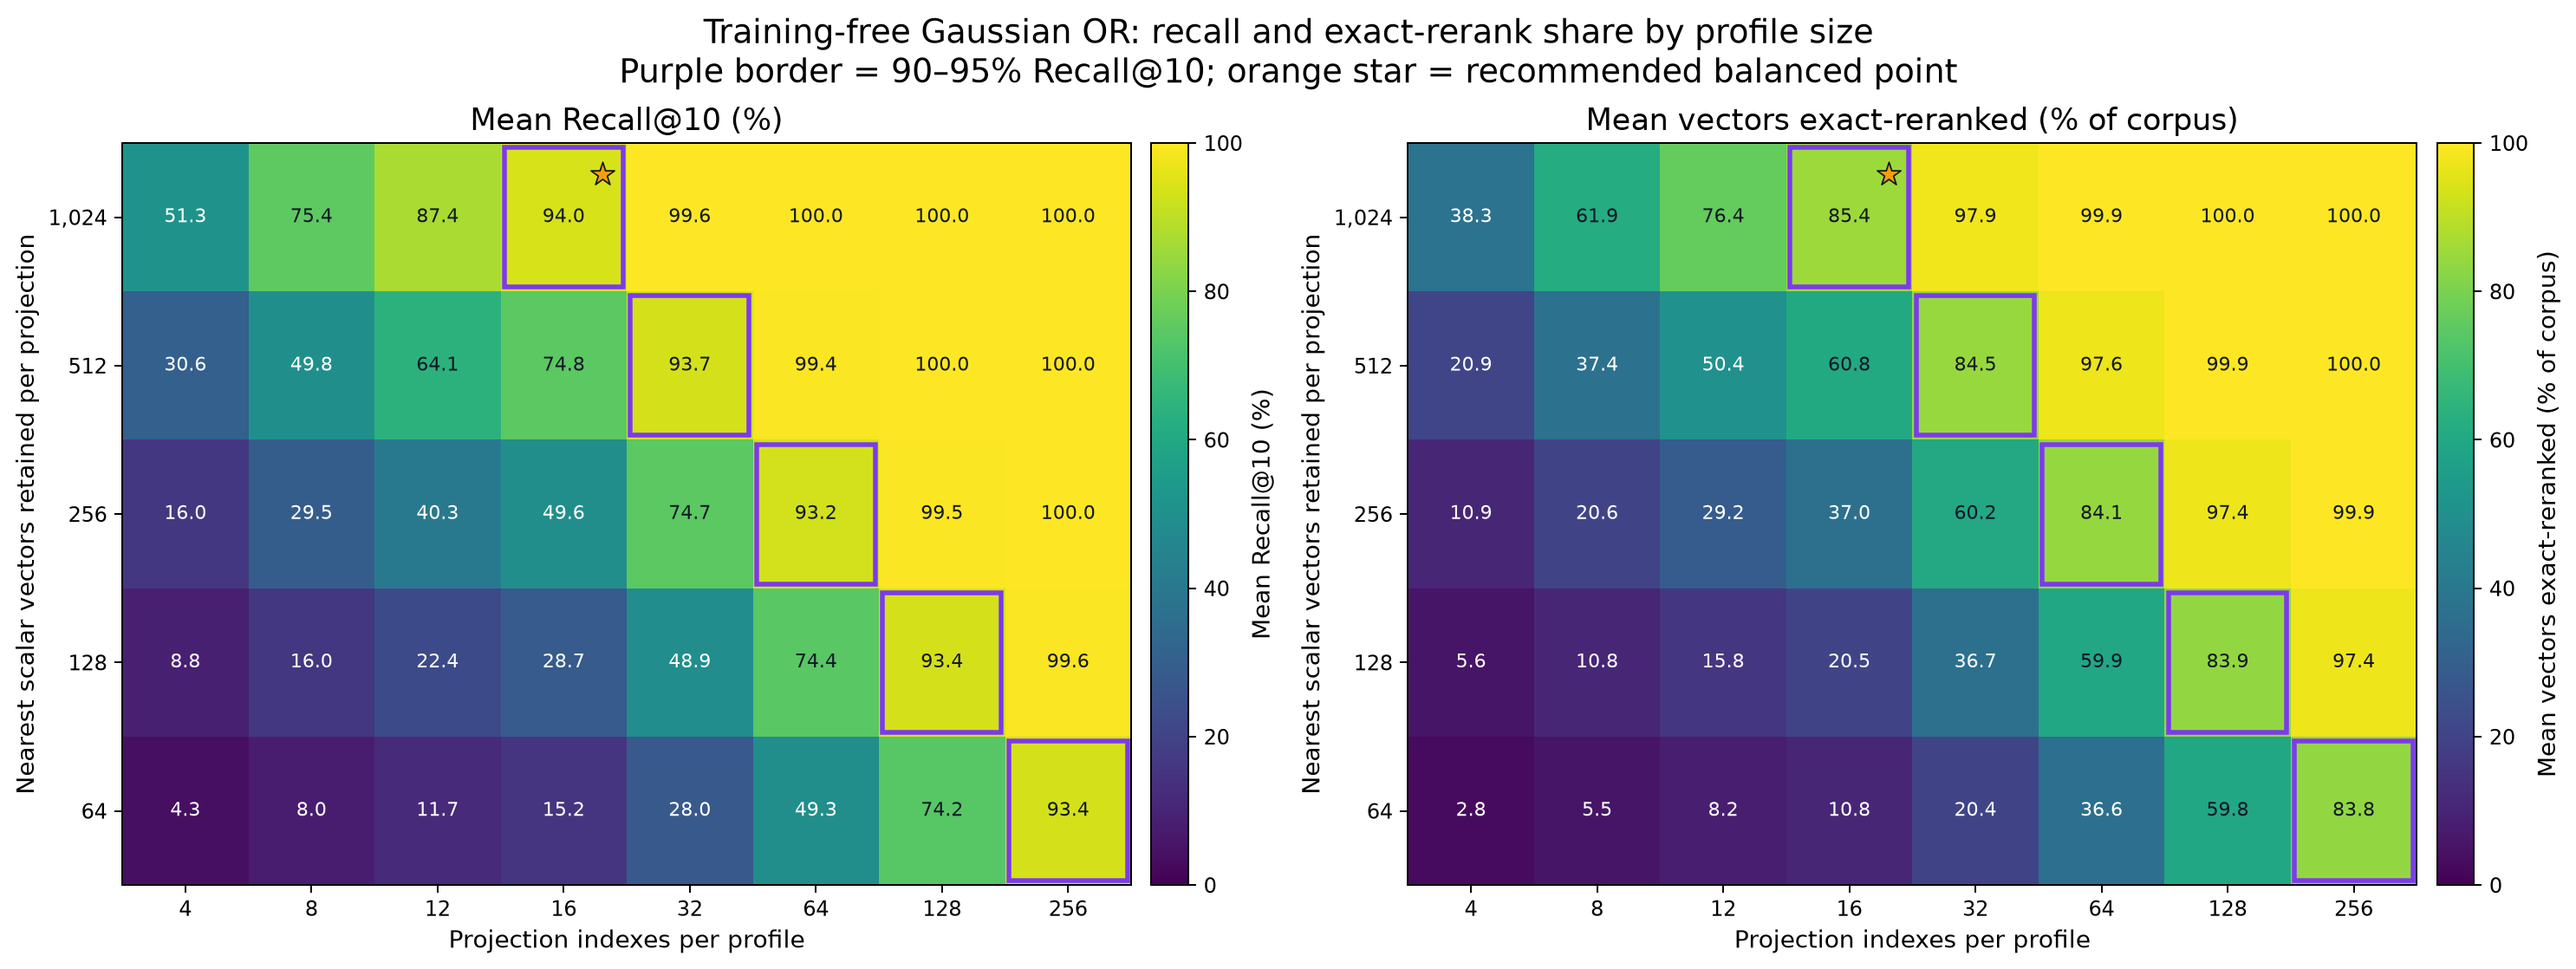
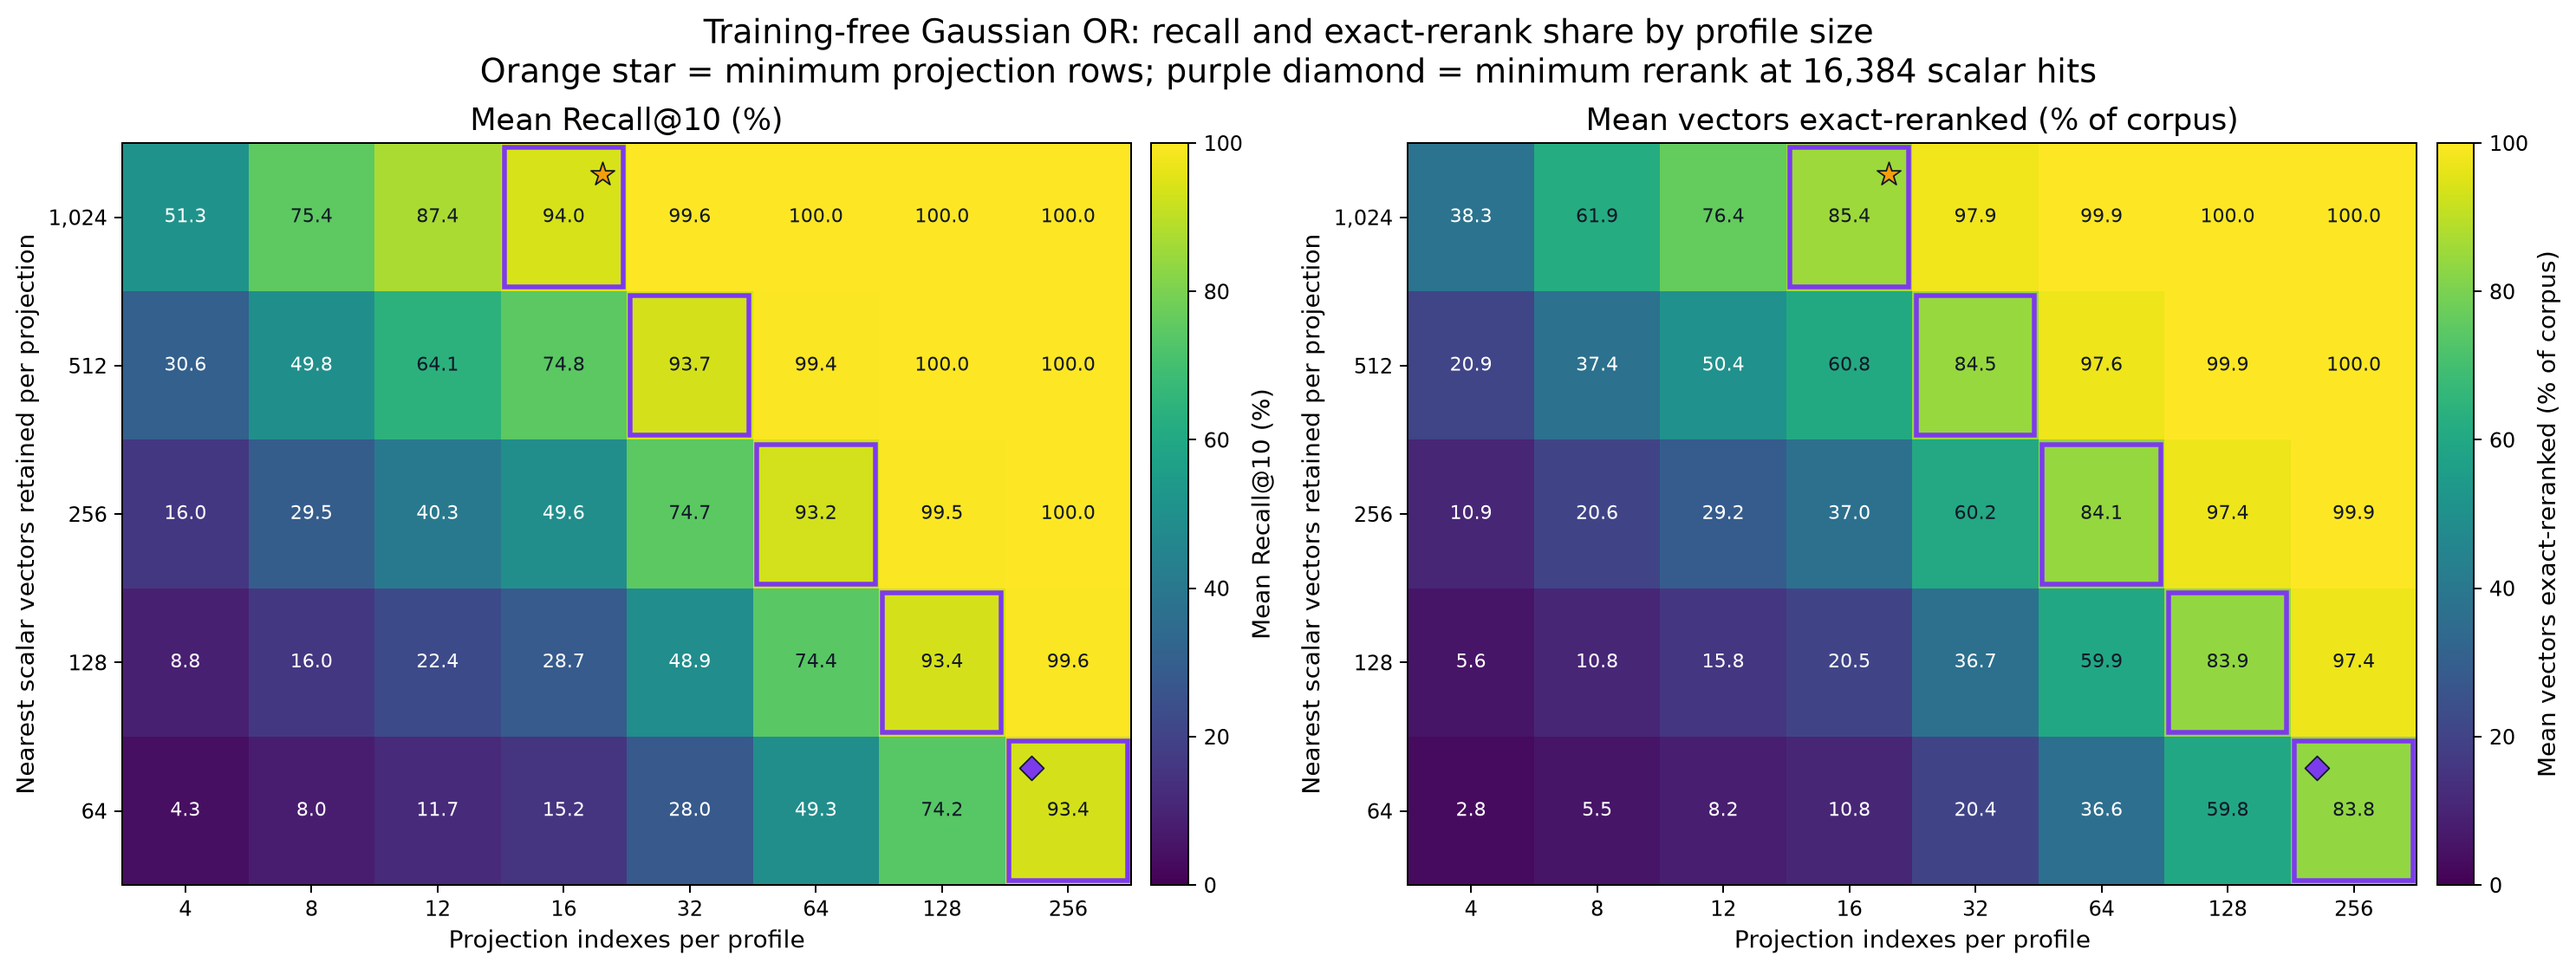
docs: clarify vector benchmark tradeoffs

Changed region(s): [[0.1857, 0.0608, 0.8048, 0.0912]]

diff --git a/docs/21-vector-ann.md b/docs/21-vector-ann.md
@@ -44,13 +44,13 @@ PCA profiles contain one dimension-length mean. Gaussian profiles contain no mea
 
 | Requirement | Profile | Initial configuration | Limitation |
 | --- | --- | --- | --- |
-| Matryoshka model and dense prefix scoring | normalized prefix scan plus full rerank | 128D prefix, rerank about 2.9% | requires a vector scan outside scalar B-tree retrieval |
+| nested-prefix embedding model and dense prefix scoring | normalized prefix scan plus full rerank | 128D prefix, rerank about 2.9% | requires a vector scan outside scalar B-tree retrieval |
 | no fitting or corpus scan | Gaussian multi-projection | 16 projections for write-sensitive partitions | measured 90% recall required reranking most of the corpus |
 | stable corpus and lower read amplification | trained PCA | one projection | profile rebuild required after material distribution drift |
 | optional filtering on a fixed Gaussian profile | collision threshold | tune after projection count and `LIMIT` | large projection table and query fan-out |
 | small filtered partition | exact scan | no projection profile | cost grows linearly with filtered row count |
 
-The Matryoshka prefix scan was the most selective measured candidate path, but it requires dense vector scoring. Among scalar B-tree prefilters, PCA was the most selective. Gaussian projections remain the recommended **training-free storage format**, not the default query plan when training or prefix scanning is available.
+The nested-prefix scan was the most selective measured candidate path, but it requires dense vector scoring. Among scalar B-tree prefilters, PCA was the most selective. Gaussian projections remain the recommended **training-free storage format**, not the default query plan when training or prefix scanning is available.
 
 ## Go profile lifecycle
 
@@ -365,7 +365,7 @@ These fractions are initial values for similar distributions, not portable guara
 | 128 | 128 | 16,384 | 7,549 | 83.88% | 93.40% |
 | 256 | 64 | 16,384 | 7,540 | 83.78% | 93.38% |
 
-Static two-sided SQL may read up to twice the listed scalar-hit count. All five profiles consume the same number of scalar hits. The 16-projection profile is the recommended balanced point: compared with 256 projections, it writes sixteen times fewer projection rows while increasing the exact-rerank share by only 1.64 percentage points.
+Static two-sided SQL may read up to twice the listed scalar-hit count. All five profiles consume 16,384 scalar hits, so there is no single optimum. The 16-projection profile minimizes projection rows and write/storage amplification; the 256-projection profile minimizes exact reranking. Moving from 16 to 256 projections writes sixteen times more projection rows to reduce the rerank share by 1.64 percentage points.
 
 ### Optional Gaussian collision filtering
 
@@ -392,7 +392,7 @@ The overview uses Pareto frontiers without a marker at every measurement. The da
 
 ![Candidate selectivity and scalar index work in the target recall region](assets/vector-ann-operating-region.png)
 
-The left panel expands Recall@10 from 88% to 97% and labels the measured operating points. The right panel places the same points on a logarithmic scalar-hit axis. Marker area increases with the number of vectors sent to exact kNN reranking. The orange star marks the lowest measured candidate and scalar-hit cost in the target band: trained PCA with one axis and `K=4,250`.
+The left panel expands Recall@10 from 88% to 97% and labels the measured operating points. The right panel places the same points on a logarithmic scalar-hit axis. Marker area increases with the number of vectors sent to exact kNN reranking. The orange star identifies the measured B-tree point that simultaneously used the fewest projection rows, scalar hits, and rerank candidates in the target band: trained PCA with one axis and `K=4,250`.
 
 Scalar hits assume application-managed lower/upper cursor merging. Static SQL that materializes `K` rows from both directions may read up to twice the displayed count.
 
@@ -406,7 +406,7 @@ The left panel retains the complete response curve. The right panel isolates the
 
 ![Training-free Gaussian OR Recall@10 matrix](assets/vector-ann-qalsh-tuning.png)
 
-The left matrix prints measured Recall@10. The right matrix prints the mean percentage of corpus vectors that proceed to exact kNN reranking. Purple outlines identify 90–95% Recall@10 cells in both panels. The orange star marks the recommended balanced training-free point: 16 projections with `LIMIT 1,024`.
+The left matrix prints measured Recall@10. The right matrix prints the mean percentage of corpus vectors that proceed to exact kNN reranking. Purple outlines identify 90–95% Recall@10 cells in both panels. Among the equal-16,384-hit profiles, the orange star marks the minimum-write point at 16 projections with `LIMIT 1,024`; the purple diamond marks the minimum-rerank point at 256 projections with `LIMIT 64`.
 
 The matrix includes 4, 8, 12, and 16 projections. With `LIMIT 1,024` per projection, their measured Recall@10 values were 51.30%, 75.36%, 87.38%, and 93.98%. Sixteen projections were the first tested count at or below 16 to enter the 90–95% target band.
 
@@ -420,11 +420,11 @@ Threshold values are not comparable across different projection counts or per-in
 
 Source rows for all figures are in [`vector-ann-benchmark.csv`](assets/vector-ann-benchmark.csv).
 
-## Matryoshka prefix experiment
+## Nested-prefix embedding experiment
 
-The [Gemini Embedding 2 preview sample](https://huggingface.co/datasets/allura-forge/gemini-embedding-2-preview-embeddings) adds a materially different option: rank every row with a normalized prefix, then rerank that prefix candidate set with the full 3,072-dimensional vector. The model uses Matryoshka Representation Learning, so its prefixes retain more neighborhood structure than arbitrary truncation.
+The [public 3,072D nested-prefix embedding sample](https://huggingface.co/datasets/allura-forge/gemini-embedding-2-preview-embeddings) adds a materially different option: rank every row with a normalized prefix, then rerank that prefix candidate set with the full 3,072-dimensional vector. The source model uses nested-prefix representation learning, so its prefixes retain more neighborhood structure than arbitrary truncation.
 
-[The model API supports 128–3,072 output dimensions and recommends 768, 1,536, or 3,072](https://ai.google.dev/gemini-api/docs/models/gemini-embedding-2-preview). The 16D and 32D measurements below intentionally test the lower-dimension hypothesis outside that supported range; they are diagnostics, not production model settings. The experiment sliced the stored 3,072D vectors and L2-normalized every prefix before cosine scoring. [API-produced truncated Gemini Embedding 2 vectors are already normalized](https://ai.google.dev/gemini-api/docs/embeddings#quality-for-smaller-dimensions).
+[The source model API supports 128–3,072 output dimensions and recommends 768, 1,536, or 3,072](https://ai.google.dev/gemini-api/docs/models/gemini-embedding-2-preview). The 16D and 32D measurements below intentionally test the lower-dimension hypothesis outside that supported range; they are diagnostics, not production model settings. The experiment sliced the stored 3,072D vectors and L2-normalized every prefix before cosine scoring. [API-produced truncated vectors from the source model are already normalized](https://ai.google.dev/gemini-api/docs/embeddings#quality-for-smaller-dimensions).
 
 ### Direct prefix tuning
 
@@ -436,10 +436,10 @@ Each row scans the listed prefix across all 9,000 corpus vectors, retains the li
 | 32 | 2,048 | 22.76% | 1.04% | 23.80% | 90.60% |
 | 64 | 1,024 | 11.38% | 2.08% | 13.46% | 93.18% |
 | **128** | **256** | **2.84%** | **4.17%** | **7.01%** | **93.54%** |
-| 256 | 64 | 0.71% | 8.33% | 9.04% | 93.82% |
+| **256** | **64** | **0.71%** | **8.33%** | **9.04%** | **93.82%** |
 | 512 | 32 | 0.36% | 16.67% | 17.02% | 97.74% |
 | 768 | 16 | 0.18% | 25.00% | 25.18% | 98.46% |
-| 1,536 | 10 | 0.11% | 50.00% | 50.11% | 92.36% |
+| **1,536** | **10** | **0.11%** | **50.00%** | **50.11%** | **92.36%** |
 
 The relative multiply-add estimate is:
 
@@ -450,13 +450,13 @@ $$
 
 where $d$ is the prefix dimension, $N=9{,}000$ is the filtered corpus, and $K$ is the full-vector rerank count. It excludes memory bandwidth, index traversal, and result materialization.
 
-![Matryoshka prefix recall and resource tuning](assets/vector-ann-matryoshka-tuning.png)
+![Nested-prefix recall and resource tuning](assets/vector-ann-prefix-tuning.png)
 
-The result does not support using 16D or 32D as a narrow direct top-K search. Their direct top-10 Recall@10 values were only 5.26% and 12.54%. They exceed 90% only after sending 45.51% or 22.76% of the corpus to full-vector reranking. The measured 90–95% arithmetic minimum is 128D with 256 candidates. The smallest exact-rerank share in that band is 256D with 64 candidates. For a target above 95%, the measured arithmetic choices are close: 128D with 512 candidates reached 96.86% recall at 9.86% relative multiply-adds, while 256D with 128 candidates reached 97.52% at 9.76%.
+The result does not support using 16D or 32D as a narrow direct top-K search. Their direct top-10 Recall@10 values were only 5.26% and 12.54%. They exceed 90% only after sending 45.51% or 22.76% of the corpus to full-vector reranking. There is no single optimum in the 90–95% band: 128D with 256 candidates minimizes estimated multiply-adds; 1,536D with 10 candidates minimizes full-vector reranking but consumes half of a full-vector scan and adds 50% prefix storage. Under a prefix cap of 256D, 256D with 64 candidates has the smallest rerank share. For a target above 95%, the measured arithmetic choices are close: 128D with 512 candidates reached 96.86% recall at 9.86% relative multiply-adds, while 256D with 128 candidates reached 97.52% at 9.76%.
 
 ### Scalar B-tree comparison
 
-Matryoshka selectivity comes from scoring the prefix as a vector. Re-projecting that prefix to one or more scalar B-tree keys discards most of the benefit:
+Nested-prefix selectivity comes from scoring the prefix as a vector. Re-projecting that prefix to one or more scalar B-tree keys discards most of the benefit:
 
 | Candidate path on 128D prefix | Projection indexes | Per-index `LIMIT` | Corpus reranked | Recall@10 |
 | --- | ---: | ---: | ---: | ---: |
@@ -464,7 +464,7 @@ Matryoshka selectivity comes from scoring the prefix as a vector. Re-projecting 
 | trained PCA | 1 | 4,096 | 45.51% | 93.62% |
 | Gaussian OR | 16 | 1,024 | 84.96% | 94.76% |
 
-![Matryoshka prefix and scalar-projection comparison](assets/vector-ann-matryoshka-methods.png)
+![Nested-prefix and scalar-projection comparison](assets/vector-ann-prefix-methods.png)
 
 Use the direct prefix path when the storage engine or application can perform a dense prefix scan over the already-filtered partition. If only scalar B-tree access is available, `ProjectionProfile` can project `embedding[:d]`, but lower $d$ reduces projection computation rather than projection-row count or query fan-out. It does not reproduce direct-prefix candidate selectivity.
 
@@ -479,15 +479,20 @@ Store these values as one versioned embedding profile:
 | model, task format, full dimension, prefix dimension, normalization | prevents incompatible query and corpus vectors from mixing |
 | validated candidate fraction and corpus fingerprint | ties `K` to the measured post-filter distribution |
 
-Derive the prefix from the same full embedding, normalize it once, and store it separately. Computing the prefix from the full blob during a query defeats the read-bandwidth benefit. Query execution is:
+Derive the stored prefix from the same full embedding, normalize it once, and store it separately. Computing the prefix from the full corpus blob during a query defeats the read-bandwidth benefit.
 
-1. apply tenant and business predicates;
-2. L2-normalize `query[:d]` with the corpus profile's exact dimension;
-3. score the normalized prefix against every vector in the filtered partition;
-4. retain `K = ceil(candidate_fraction × partition_rows)`; use a fixed power-of-two bucket only when that exact bucket was validated;
-5. fetch the full vectors for those IDs and return exact cosine top-10.
+This two-stage path requires a full 3,072D query vector. Request or compute the 3,072D API output and retain it through both stages; requesting only a 128D or 256D output leaves no compatible query for exact cosine reranking against the stored 3,072D corpus vectors.
 
-Start at 128D and a 2.9% candidate fraction for a measured target near 94%, or 256D and a 1.5% candidate fraction for a measured target above 95%. These are benchmark starting points, not portable guarantees. Revalidate after model, task-prefix, corpus, filter, or embedding-version changes.
+Query execution is:
+
+1. obtain and retain the full 3,072D query vector;
+2. apply tenant and business predicates;
+3. slice `full_query[:d]` and L2-normalize it with the corpus profile's exact dimension;
+4. score the normalized prefix against every prefix vector in the filtered partition;
+5. retain `K = ceil(candidate_fraction × partition_rows)`; use a fixed power-of-two bucket only when that exact bucket was validated;
+6. fetch the full vectors for those IDs and use the retained full query to return exact cosine top-10.
+
+For a measured target near 94%, start at 128D and a 2.84% candidate fraction when prefix-scan arithmetic is the primary constraint, or 256D and a 0.71% candidate fraction when prefix dimensions are capped at 256 and full-vector reads are more expensive. If minimizing full-vector rerank alone justifies a 50%-size prefix, 1,536D with a 0.11% candidate fraction is the measured point. For a measured target above 95%, start at 256D and a 1.42% candidate fraction. These are benchmark starting points, not portable guarantees. Revalidate after model, task-prefix, corpus, filter, or embedding-version changes.
 
 ## Reproducibility metadata
 
@@ -507,11 +512,11 @@ Start at 128D and a 2.9% candidate fraction for a measured target near 94%, or 2
 | PCA training | exact covariance eigendecomposition for the benchmark |
 | Gaussian retrieval | exact absolute scalar top-K before OR or collision filtering |
 
-### Matryoshka 3,072D sample
+### Nested-prefix 3,072D sample
 
 | Property | Value |
 | --- | --- |
-| source | [`allura-forge/gemini-embedding-2-preview-embeddings`](https://huggingface.co/datasets/allura-forge/gemini-embedding-2-preview-embeddings) |
+| source | [public 3,072D nested-prefix embedding dataset](https://huggingface.co/datasets/allura-forge/gemini-embedding-2-preview-embeddings) |
 | source rows | 10,000 across ten Parquet shards |
 | dimensions | 3,072 |
 | corpus rows | 9,000 |
